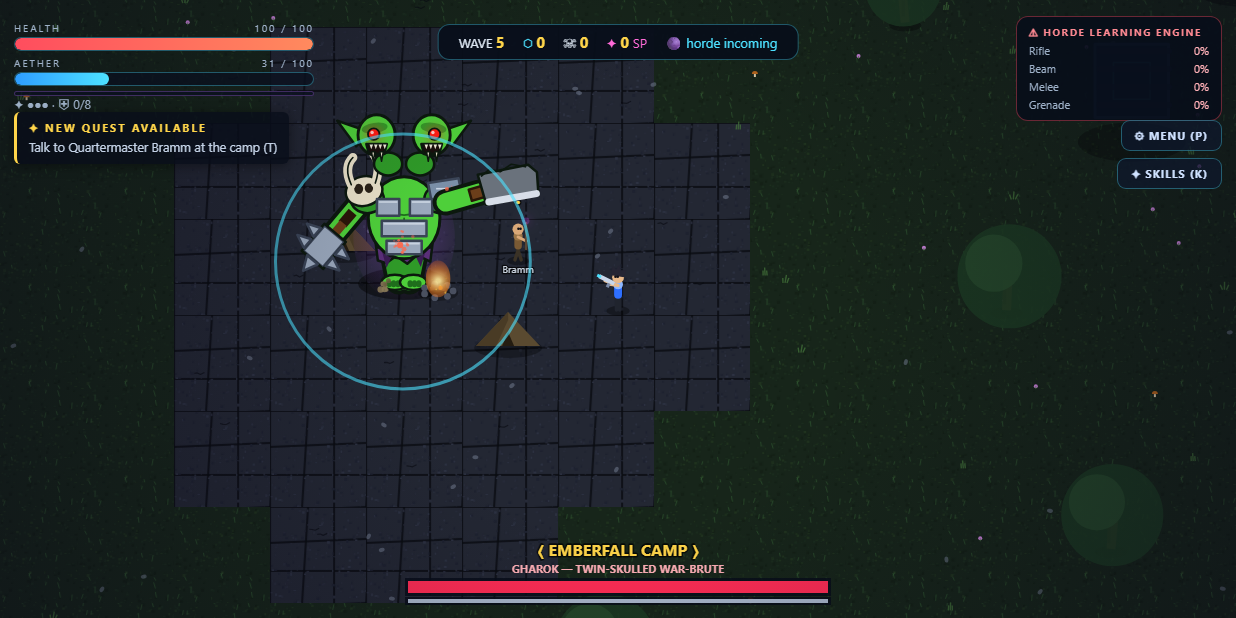
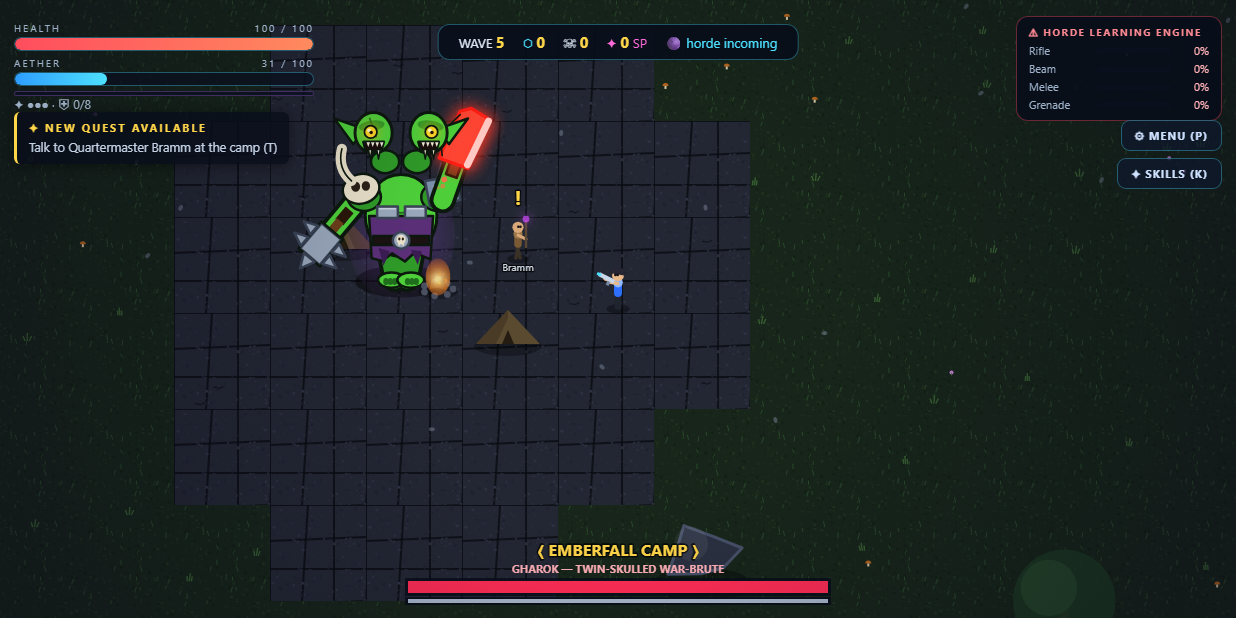
v2.8.3: polish twin-orc Gharok, defer stomps, archive template
Gate stomp juice behind GHAROK_STOMP_JUICE=false until look is signed off; sync www, refresh preview, keep v2.8.2 template PNG + original concept art.

diff --git a/www/game.js b/www/game.js
@@ -479,9 +479,11 @@ function playCracklePop() {
   } catch (e) { /* audio must never break gameplay */ }
 }
 
-// Gharok foot-stomp thump (v2.8.3): deep sine drop + low-passed dirt slap.
-// Synthesized only — matches whoosh/zap/crackle patterns above.
+// Gharok foot-stomp juice — DEFERRED until look is approved (v2.8.3+).
+// Flip GHAROK_STOMP_JUICE on to re-enable synth thump + vibro + dust.
+const GHAROK_STOMP_JUICE = false;
 function playStomp() {
+  if (!GHAROK_STOMP_JUICE) return;
   try {
     const ac = getAudio();
     if (!ac || ac.state !== 'running') return;
@@ -1905,8 +1907,9 @@ function spawnRing(x, y, R) { particles.push({ x, y, ring: true, r: 10, targetR:
 function emberBurst(x, y) { spawnParticles(x, y, 8, '#ff9d2e', 3); spawnParticles(x, y, 4, '#ffd54a', 2); }
 function addFloater(x, y, text, color, big) { floaters.push({ x, y, text, color, life: 1.1, big }); }
 function zap(x1, y1, x2, y2) { zaps.push({ x1, y1, x2, y2, life: 0.12 }); }
-// Gharok stomp juice: synth thump + vibro + light shake + dust (tasteful).
+// Gharok stomp juice (deferred — gated by GHAROK_STOMP_JUICE).
 function warlordStomp(e, heavy) {
+  if (!GHAROK_STOMP_JUICE) return;
   playStomp();
   buzz(heavy ? [35, 40, 45] : 28);
   camera.shake = Math.max(camera.shake, heavy ? 5.5 : 2.4);
@@ -3203,35 +3206,6 @@ function drawWarlord(e, alpha) {
     }
   }
 
-  // ---- TATTERED PURPLE TUNIC + BELT ----
-  ctx.fillStyle = tunic; ctx.strokeStyle = outline; ctx.lineWidth = OL;
-  strokeFill(() => {
-    ctx.beginPath();
-    ctx.moveTo(-9.5 * s, hipY - 3 * s);
-    ctx.lineTo(9.5 * s, hipY - 3 * s);
-    ctx.lineTo(8.2 * s, hipY + 7.5 * s);
-    ctx.lineTo(4 * s, hipY + 5.5 * s);
-    ctx.lineTo(1 * s, hipY + 8.2 * s);
-    ctx.lineTo(-2.5 * s, hipY + 5.8 * s);
-    ctx.lineTo(-5.5 * s, hipY + 8 * s);
-    ctx.lineTo(-8.2 * s, hipY + 7.2 * s);
-    ctx.closePath();
-  });
-  // tattered flaps
-  ctx.fillStyle = tunicDark;
-  ctx.beginPath();
-  ctx.moveTo(-7 * s, hipY + 4 * s); ctx.lineTo(-5.5 * s, hipY + 9.5 * s); ctx.lineTo(-3.5 * s, hipY + 5 * s);
-  ctx.moveTo(3 * s, hipY + 4.5 * s); ctx.lineTo(5.2 * s, hipY + 9.2 * s); ctx.lineTo(6.5 * s, hipY + 5 * s);
-  ctx.fill();
-  // belt + buckle
-  ctx.fillStyle = belt; ctx.strokeStyle = outline; ctx.lineWidth = OL;
-  ctx.fillRect(-8.5 * s, hipY + 0.5 * s, 17 * s, 2.6 * s);
-  ctx.strokeRect(-8.5 * s, hipY + 0.5 * s, 17 * s, 2.6 * s);
-  ctx.fillStyle = steel; ctx.strokeStyle = steelEdge; ctx.lineWidth = OL;
-  strokeFill(() => {
-    ctx.beginPath(); ctx.arc(0, hipY + 1.8 * s, 2.4 * s, 0, TAU);
-  });
-
   // ---- SPIKED MACE ARM (back / left) — heavy hit weapon ----
   ctx.save();
   ctx.translate(-13.5 * s, shY + 5 * s);
@@ -3290,77 +3264,145 @@ function drawWarlord(e, alpha) {
   strokeFill(() => { ctx.beginPath(); ctx.ellipse(-11.5 * s, shY + 4 * s, 5.2 * s, 4.4 * s, 0, 0, TAU); });
   strokeFill(() => { ctx.beginPath(); ctx.ellipse(11.5 * s, shY + 4 * s, 5.2 * s, 4.4 * s, 0, 0, TAU); });
 
-  // ---- PAULDRONS: horned skull (left) + metal (right) ----
-  // skull pauldron
-  ctx.fillStyle = bone; ctx.strokeStyle = outline; ctx.lineWidth = OL;
-  strokeFill(() => {
-    ctx.beginPath(); ctx.ellipse(-12.5 * s, shY + 1.5 * s, 5.8 * s, 4.6 * s, -0.25, 0, TAU);
-  });
-  // eye sockets
-  ctx.fillStyle = '#2a2218';
-  ctx.beginPath();
-  ctx.ellipse(-14.2 * s, shY + 0.8 * s, 1.4 * s, 1.6 * s, 0, 0, TAU);
-  ctx.ellipse(-11 * s, shY + 0.6 * s, 1.3 * s, 1.5 * s, 0, 0, TAU);
-  ctx.fill();
-  // curved horns
-  ctx.strokeStyle = bone; ctx.lineWidth = 2.8 * s;
-  ctx.beginPath();
-  ctx.moveTo(-16.5 * s, shY - 0.5 * s);
-  ctx.quadraticCurveTo(-19 * s, shY - 6 * s, -16 * s, shY - 9 * s);
-  ctx.moveTo(-9 * s, shY - 1 * s);
-  ctx.quadraticCurveTo(-7 * s, shY - 7 * s, -9.5 * s, shY - 10 * s);
-  ctx.stroke();
-  ctx.strokeStyle = outline; ctx.lineWidth = 1.6;
-  ctx.beginPath();
-  ctx.moveTo(-16.5 * s, shY - 0.5 * s);
-  ctx.quadraticCurveTo(-19 * s, shY - 6 * s, -16 * s, shY - 9 * s);
-  ctx.moveTo(-9 * s, shY - 1 * s);
-  ctx.quadraticCurveTo(-7 * s, shY - 7 * s, -9.5 * s, shY - 10 * s);
-  ctx.stroke();
-  // metal pauldron
-  ctx.fillStyle = steelBlue; ctx.strokeStyle = steelEdge; ctx.lineWidth = OL;
+  // ---- PURPLE TUNIC OVER TORSO + BELT / SKULL BUCKLE ----
+  ctx.fillStyle = tunic; ctx.strokeStyle = outline; ctx.lineWidth = OL;
   strokeFill(() => {
     ctx.beginPath();
-    ctx.moveTo(7.5 * s, shY - 1 * s);
-    ctx.lineTo(17 * s, shY - 2.5 * s);
-    ctx.lineTo(18.5 * s, shY + 5 * s);
-    ctx.lineTo(9 * s, shY + 7 * s);
+    ctx.moveTo(-10 * s, shY + 10 * s);
+    ctx.lineTo(10 * s, shY + 10 * s);
+    ctx.lineTo(9.2 * s, hipY + 7.5 * s);
+    ctx.lineTo(4.2 * s, hipY + 5.4 * s);
+    ctx.lineTo(1.2 * s, hipY + 8.2 * s);
+    ctx.lineTo(-2.8 * s, hipY + 5.6 * s);
+    ctx.lineTo(-5.8 * s, hipY + 8 * s);
+    ctx.lineTo(-9.2 * s, hipY + 7.2 * s);
     ctx.closePath();
   });
-  ctx.fillStyle = flash ? '#fff' : '#c8d4e4';
-  ctx.fillRect(10 * s, shY + 0.5 * s, 6 * s, 1.6);
+  ctx.fillStyle = tunicDark;
+  ctx.beginPath();
+  ctx.moveTo(-7 * s, hipY + 4 * s); ctx.lineTo(-5.5 * s, hipY + 9.5 * s); ctx.lineTo(-3.5 * s, hipY + 5 * s);
+  ctx.moveTo(3 * s, hipY + 4.5 * s); ctx.lineTo(5.2 * s, hipY + 9.2 * s); ctx.lineTo(6.5 * s, hipY + 5 * s);
+  ctx.fill();
+  ctx.fillStyle = belt; ctx.strokeStyle = outline; ctx.lineWidth = OL;
+  ctx.fillRect(-8.8 * s, hipY + 0.2 * s, 17.6 * s, 2.8 * s);
+  ctx.strokeRect(-8.8 * s, hipY + 0.2 * s, 17.6 * s, 2.8 * s);
+  // circular skull buckle (detail cue from portrait ref — original shapes)
+  ctx.fillStyle = steel; ctx.strokeStyle = steelEdge; ctx.lineWidth = OL;
+  strokeFill(() => { ctx.beginPath(); ctx.arc(0, hipY + 1.6 * s, 2.6 * s, 0, TAU); });
+  ctx.fillStyle = bone;
+  ctx.beginPath(); ctx.ellipse(0, hipY + 1.35 * s, 1.45 * s, 1.55 * s, 0, 0, TAU); ctx.fill();
+  ctx.fillStyle = '#2a2218';
+  ctx.beginPath();
+  ctx.ellipse(-0.55 * s, hipY + 1.15 * s, 0.35 * s, 0.45 * s, 0, 0, TAU);
+  ctx.ellipse(0.55 * s, hipY + 1.15 * s, 0.35 * s, 0.45 * s, 0, 0, TAU);
+  ctx.fill();
+  ctx.fillStyle = bone;
+  ctx.fillRect(-0.9 * s, hipY + 2.35 * s, 0.55 * s, 0.85 * s);
+  ctx.fillRect(0.35 * s, hipY + 2.35 * s, 0.55 * s, 0.85 * s);
 
-  // ---- ARMOR PLATES — chip with armorCrack ----
+  // ---- PAULDRONS: horned skull (left) + spiked metal (right) ----
+  // armorCrack maps: 4 = both pauldrons + 2 chest straps; chips peel straps then pauldrons
+  const plates = e.maxArmor ? (e.armor > 0 ? e.armorCrack : 0) : 4;
+  // skull / horn trophy pauldron (chips when plates < 2)
+  if (plates >= 2) {
+    ctx.fillStyle = bone; ctx.strokeStyle = outline; ctx.lineWidth = OL;
+    strokeFill(() => {
+      ctx.beginPath(); ctx.ellipse(-12.5 * s, shY + 1.5 * s, 5.8 * s, 4.6 * s, -0.25, 0, TAU);
+    });
+    ctx.fillStyle = '#2a2218';
+    ctx.beginPath();
+    ctx.ellipse(-14.2 * s, shY + 0.8 * s, 1.4 * s, 1.6 * s, 0, 0, TAU);
+    ctx.ellipse(-11 * s, shY + 0.6 * s, 1.3 * s, 1.5 * s, 0, 0, TAU);
+    ctx.fill();
+    // one bold spiral horn (Image-1 cue)
+    ctx.strokeStyle = bone; ctx.lineWidth = 3.2 * s;
+    ctx.beginPath();
+    ctx.moveTo(-15.5 * s, shY - 1 * s);
+    ctx.quadraticCurveTo(-20 * s, shY - 5 * s, -18.5 * s, shY - 11 * s);
+    ctx.stroke();
+    ctx.strokeStyle = outline; ctx.lineWidth = 1.6;
+    ctx.beginPath();
+    ctx.moveTo(-15.5 * s, shY - 1 * s);
+    ctx.quadraticCurveTo(-20 * s, shY - 5 * s, -18.5 * s, shY - 11 * s);
+    ctx.stroke();
+    if (plates === 2 && e.armor < e.maxArmor) {
+      ctx.strokeStyle = outline; ctx.lineWidth = 1.8;
+      ctx.beginPath();
+      ctx.moveTo(-15 * s, shY - 1 * s); ctx.lineTo(-10 * s, shY + 4 * s);
+      ctx.stroke();
+    }
+  } else {
+    ctx.strokeStyle = skinDeep; ctx.lineWidth = 2.2;
+    ctx.beginPath();
+    ctx.moveTo(-15 * s, shY); ctx.lineTo(-10 * s, shY + 5 * s);
+    ctx.moveTo(-10 * s, shY); ctx.lineTo(-15 * s, shY + 5 * s);
+    ctx.stroke();
+  }
+  // spiked silver pauldron (chips when plates < 1)
+  if (plates >= 1) {
+    ctx.fillStyle = steelBlue; ctx.strokeStyle = steelEdge; ctx.lineWidth = OL;
+    strokeFill(() => {
+      ctx.beginPath();
+      ctx.moveTo(7.5 * s, shY - 1 * s);
+      ctx.lineTo(17 * s, shY - 2.5 * s);
+      ctx.lineTo(18.5 * s, shY + 5 * s);
+      ctx.lineTo(9 * s, shY + 7 * s);
+      ctx.closePath();
+    });
+    ctx.fillStyle = flash ? '#fff' : '#c8d4e4';
+    ctx.fillRect(10 * s, shY + 0.5 * s, 6 * s, 1.6);
+    // 3 bold spikes on metal pauldron (grit cue)
+    ctx.fillStyle = steel; ctx.strokeStyle = steelEdge; ctx.lineWidth = OL;
+    for (const [px, py] of [[11.5, -2.2], [14.5, -3.2], [17.2, -1.5]]) {
+      strokeFill(() => {
+        ctx.beginPath();
+        ctx.moveTo(px * s, shY + py * s);
+        ctx.lineTo((px + 1.1) * s, shY + (py - 4.2) * s);
+        ctx.lineTo((px + 2.2) * s, shY + py * s);
+        ctx.closePath();
+      });
+    }
+    if (plates === 1 && e.armor < e.maxArmor) {
+      ctx.strokeStyle = outline; ctx.lineWidth = 1.8;
+      ctx.beginPath();
+      ctx.moveTo(9 * s, shY); ctx.lineTo(16 * s, shY + 5 * s);
+      ctx.stroke();
+    }
+  } else {
+    ctx.strokeStyle = skinDeep; ctx.lineWidth = 2.2;
+    ctx.beginPath();
+    ctx.moveTo(9 * s, shY); ctx.lineTo(16 * s, shY + 5 * s);
+    ctx.moveTo(16 * s, shY); ctx.lineTo(9 * s, shY + 5 * s);
+    ctx.stroke();
+  }
+
+  // ---- CHEST STRAPS (armorCrack plates 3–4) ----
   if (e.maxArmor) {
-    const plates = e.armor > 0 ? e.armorCrack : 0;
     const spots = [
-      [-8.5, -25, 7, 5.2],
-      [1.8, -25, 7, 5.2],
-      [-7, -18.2, 14, 4.8],
-      [-5.5, -12, 11, 4.2],
+      [-7.5, -22, 6.5, 3.6],
+      [1.2, -22, 6.5, 3.6],
     ];
-    for (let i = 0; i < 4; i++) {
+    for (let i = 0; i < 2; i++) {
+      const need = i + 3; // plate thresholds 3 and 4
       const [px, py, pw, ph] = spots[i];
       const x = px * s, y = py * s, w = pw * s, h = ph * s;
-      if (i < plates) {
+      if (plates >= need) {
         ctx.fillStyle = steel; ctx.strokeStyle = steelEdge; ctx.lineWidth = OL;
         ctx.fillRect(x, y, w, h);
         ctx.strokeRect(x, y, w, h);
         ctx.fillStyle = flash ? '#fff' : '#c8d2e0';
-        ctx.fillRect(x + 2, y + 2, w - 4, 1.8);
-        if (i === plates - 1 && e.armor < e.maxArmor) {
+        ctx.fillRect(x + 2, y + 1.5, w - 4, 1.5);
+        if (plates === need && e.armor < e.maxArmor) {
           ctx.strokeStyle = outline; ctx.lineWidth = 1.6;
           ctx.beginPath();
-          ctx.moveTo(x + 2, y + 2);
-          ctx.lineTo(x + w * 0.55, y + h * 0.6);
-          ctx.lineTo(x + w * 0.35, y + h - 2);
+          ctx.moveTo(x + 2, y + 1); ctx.lineTo(x + w * 0.6, y + h - 1);
           ctx.stroke();
         }
       } else {
-        ctx.strokeStyle = skinDeep; ctx.lineWidth = 2.2;
+        ctx.strokeStyle = skinDeep; ctx.lineWidth = 2;
         ctx.beginPath();
-        ctx.moveTo(x + 2, y + 2); ctx.lineTo(x + w - 2, y + h - 2);
-        ctx.moveTo(x + w - 2, y + 2); ctx.lineTo(x + 2, y + h - 2);
+        ctx.moveTo(x + 1, y + 1); ctx.lineTo(x + w - 1, y + h - 1);
+        ctx.moveTo(x + w - 1, y + 1); ctx.lineTo(x + 1, y + h - 1);
         ctx.stroke();
       }
     }
@@ -3445,15 +3487,26 @@ function drawWarlord(e, alpha) {
     ctx.ellipse(ox + earDir * 0.6 * s, headY - 2.2 * s, hr * 0.7, hr * 0.28, earDir * 0.15, 0, TAU);
     ctx.fill();
 
-    // glowing red eye
+    // scar on left head only (grit cue)
+    if (off < 0) {
+      ctx.strokeStyle = skinDeep; ctx.lineWidth = 1.8;
+      ctx.beginPath();
+      ctx.moveTo(ox - 1.2 * s, headY - 4.5 * s);
+      ctx.lineTo(ox + 0.8 * s, headY + 1.2 * s);
+      ctx.stroke();
+    }
+
+    // amber/yellow glowing eyes (portrait detail cue — original orbs)
     const ex = ox + earDir * 0.9 * s, ey = headY - 0.3 * s;
     const er = 2.5 * s * pulse;
-    ctx.fillStyle = '#ff1e14';
-    ctx.shadowColor = '#ff2a1f'; ctx.shadowBlur = 12;
+    ctx.fillStyle = '#ffd428';
+    ctx.shadowColor = '#ffb000'; ctx.shadowBlur = 12;
     ctx.beginPath(); ctx.arc(ex, ey, er, 0, TAU); ctx.fill();
     ctx.shadowBlur = 0;
-    ctx.fillStyle = '#ffc9c4';
+    ctx.fillStyle = '#fff6c8';
     ctx.beginPath(); ctx.arc(ex - 0.5 * s, ey - 0.5 * s, er * 0.3, 0, TAU); ctx.fill();
+    ctx.fillStyle = '#2a1808';
+    ctx.beginPath(); ctx.arc(ex + 0.15 * s, ey + 0.15 * s, er * 0.28, 0, TAU); ctx.fill();
     ctx.strokeStyle = outline; ctx.lineWidth = 1.8;
     ctx.beginPath(); ctx.arc(ex, ey, er, 0, TAU); ctx.stroke();
 

diff --git a/README.md b/README.md
@@ -60,16 +60,6 @@ No install, no build step:
 - **Mobile-first tech** — virtual joystick, hold-to-fire ability buttons, auto-aim,
   devicePixelRatio-aware rendering, no scroll/zoom bleed, zero dependencies.
 
-### New in Release 2.8.3 (Gharok Image-1 twin war-brute)
-
-- **Boss look** — Gharok switches to an original procedural redraw of the twin-headed
-  green war-brute concept: purple tattered tunic + belt, skull pauldron + metal
-  pauldron, spiked mace + oversized cleaver (red wind-up telegraph), bare thick
-  feet, larger boss radius/scale. v2.8.2 clean geometric draw kept as
-  `drawWarlord_v282_template`.
-- **Foot stomp juice** — synth thump + vibro + light shake/dust on walk plants and
-  cleaver slam. Art roadmap: `docs/gharok-art-plan.md`.
-
 ### New in Release 2.8.3 (Gharok twin war-brute)
 
 - **Boss look** — Gharok redrawn as a bigger original twin-headed green war-brute
@@ -79,6 +69,7 @@ No install, no build step:
   Foot-stomp juice is **deferred** (`GHAROK_STOMP_JUICE = false`) until the look is
   signed off. v2.8.2 clean silhouette kept as `drawWarlord_v282_template` +
   `gharok-template-2.8.2.png`. Concept: `gharok-twinorc-concept.png`.
+  Art roadmap: `docs/gharok-art-plan.md`.
 - **Backlog (not in this build):** skill-tree polish, better sound engine, stomp juice.
 
 ### New in Release 2.8.2 (Gharok clean twin-brute)
